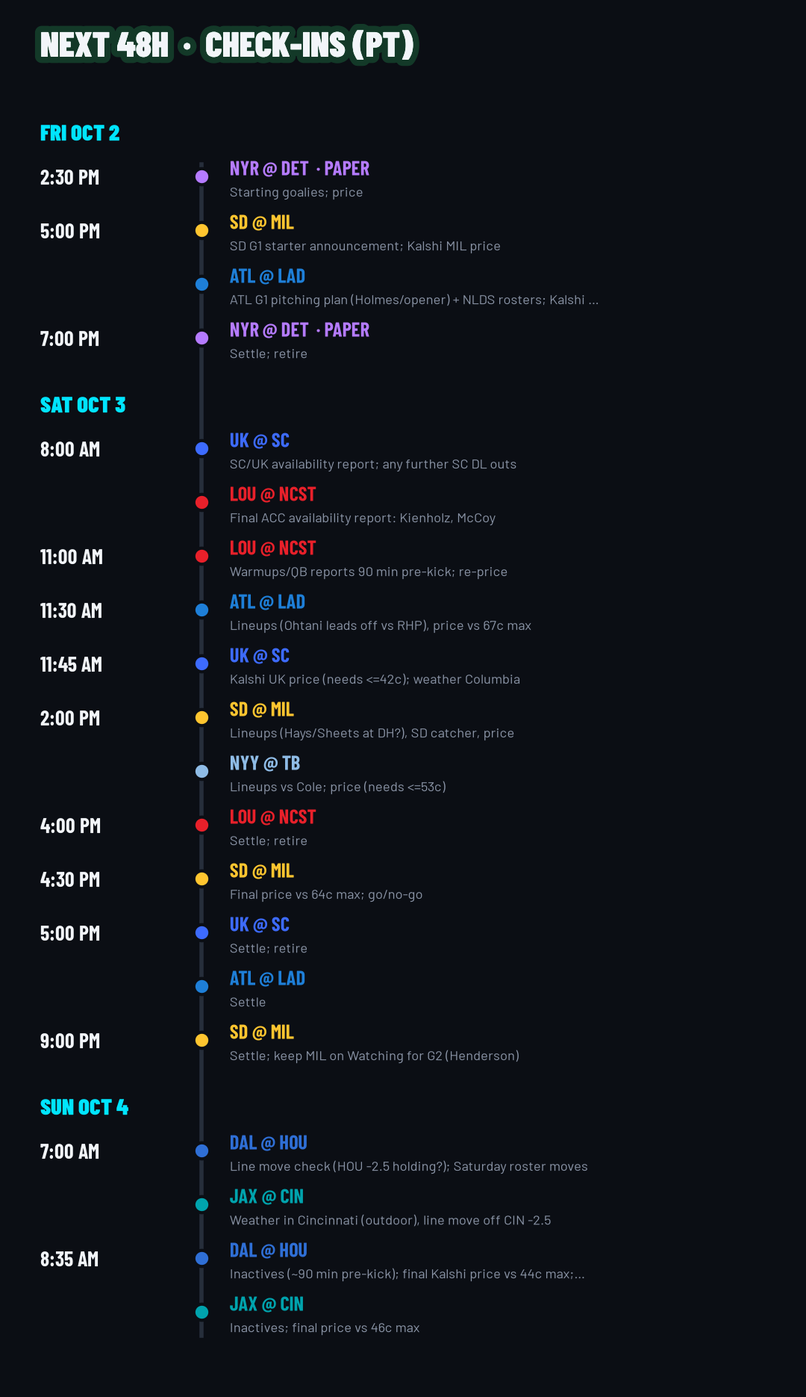
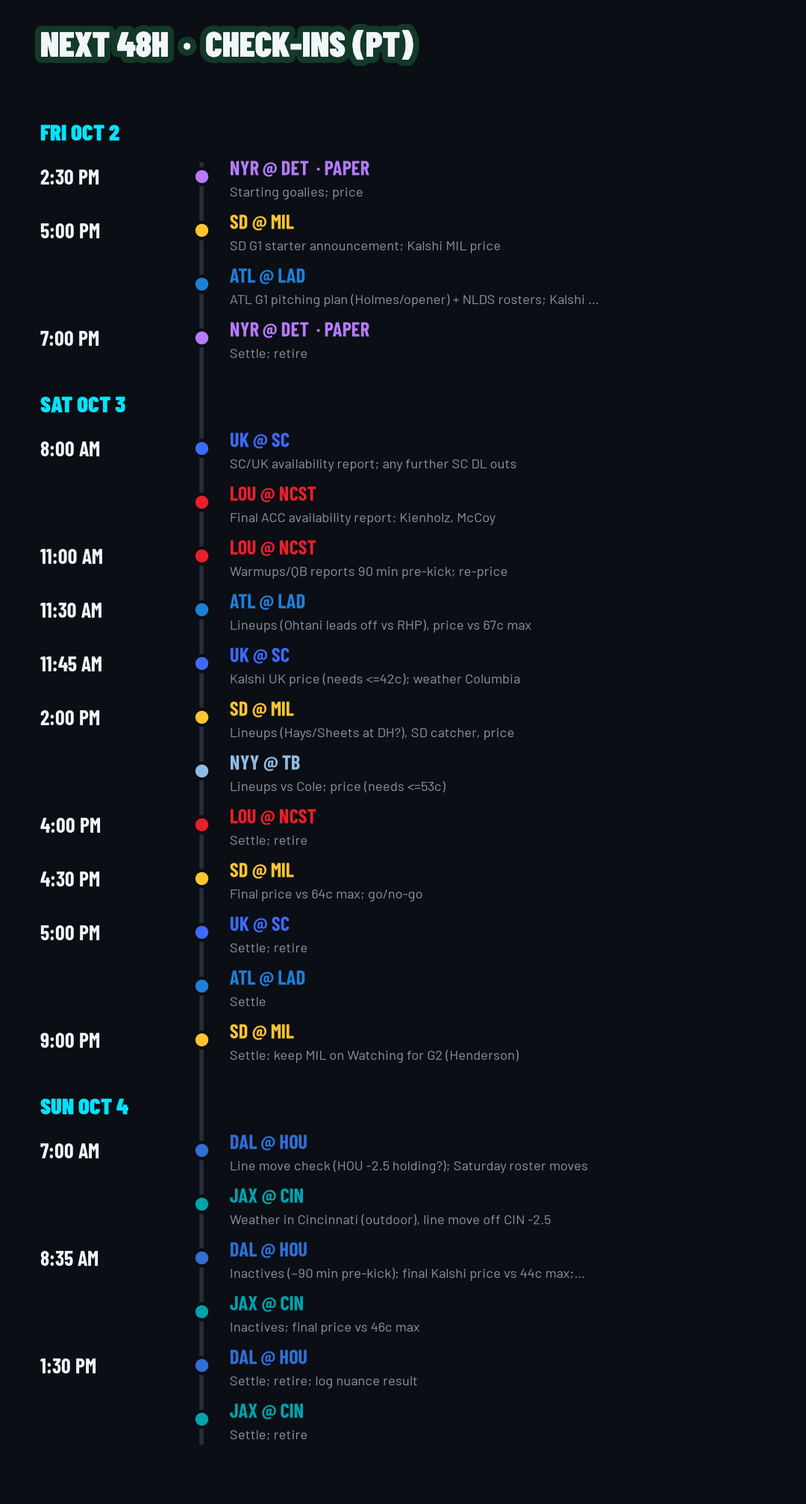
Board update 2026-10-02 1:35 PM PT

diff --git a/index.html b/index.html
@@ -118,7 +118,7 @@ details.vzbal summary::-webkit-details-marker{display:none}details.vzbal div{fon
 .tag.placed{background:#39FF88;color:#0B0E14;font-weight:800}
 
 .wyopen{cursor:pointer}.card[data-why] h3{cursor:pointer}
-.wybtn{display:inline-flex;align-items:center;gap:4px;margin-top:8px;font:600 12.5px/1 -apple-system,Segoe UI,Roboto,sans-serif;color:var(--acc);background:rgba(79,179,255,.10);border:1px solid rgba(79,179,255,.45);border-radius:999px;padding:7px 12px;cursor:pointer}
+.wybtn{display:inline-flex;align-items:center;gap:4px;margin:8px 0 2px;font:600 12.5px/1 -apple-system,Segoe UI,Roboto,sans-serif;color:var(--acc);background:rgba(79,179,255,.10);border:1px solid rgba(79,179,255,.45);border-radius:999px;padding:7px 12px;cursor:pointer}
 .wybtn:hover,.wybtn:focus-visible{background:rgba(79,179,255,.2);outline:none}
 tr[data-why]{cursor:pointer}tr[data-why]:hover td{background:rgba(79,179,255,.06)}
 tr[data-why] td:first-child b::after{content:" \203A";color:var(--acc)}
@@ -156,7 +156,7 @@ body.wylock{overflow:hidden}
 @media(min-width:760px){.wypanel{left:50%;top:50%;bottom:auto;right:auto;transform:translate(-50%,-50%);width:min(640px,92vw);max-height:86vh;border-radius:16px;border-bottom:1px solid var(--line)}}
 </style></head><body><div class="wrap">
 <div class="stamp">&#9679; LIVE &middot; last updated 2026-10-02 13:30 PT</div>
-<div id="built" class="small muted">page built Fri Oct 2, 1:23 PM PT</div>
+<div id="built" class="small muted">page built Fri Oct 2, 1:35 PM PT</div>
 <section id="vs" class="vz"><div class="vzhead"><span class="vztitle">&#127942; HEAD-TO-HEAD</span><span class="vzsince">REAL $ &middot; SINCE SEP 28</span></div><div class="vzcols"><div class="vzp user" style="--c:#FF7A1A"><div class="vzav"><span>🦊</span></div><div class="vzname">FOX</div><div class="vzsub">Blue beat · your money</div><div class="vznet">+$6.90</div><div class="vzrec">2-1 real &middot; ROI +7.3%</div><details class="vzbal"><summary>Balance: <b>—</b> &middot; tap to set</summary><div>Tell me your Kalshi balance in chat and I'll fill it in.</div></details></div><div class="vzvs">VS</div><div class="vzp me lead" style="--c:#39FF88"><div class="vzav"><span class="vzcrown">&#128081;</span><span>🎩</span></div><div class="vzname">THE GAMBLING MAN</div><div class="vzsub">me · test bankroll</div><div class="vznet">+$43.90</div><div class="vzrec">2-1 real &middot; ROI +75.7%</div><div class="vzbal">Bankroll <b>$63.90</b> &middot; from $20</div></div></div><div class="vzrows"><div class="vzrow"><span class="l">2-1</span><span class="k">RECORD</span><span class="r">2-1</span></div><div class="vzrow"><span class="l">+$6.90</span><span class="k">NET $</span><span class="r hl">+$43.90</span></div><div class="vzrow"><span class="l">+7.3%</span><span class="k">ROI</span><span class="r hl">+75.7%</span></div><div class="vzrow"><span class="l">$95</span><span class="k">STAKED</span><span class="r">$58</span></div><div class="vzrow"><span class="l">L1</span><span class="k">STREAK</span><span class="r">L1</span></div><div class="vzrow"><span class="l">+$45.00 NYY</span><span class="k">BIG WIN</span><span class="r">+$45.00 NYY</span></div><div class="vzrow"><span class="l hl">1-0 · +1.75u</span><span class="k">PAPER</span><span class="r">9-9 · -1.99u</span></div><div class="vzrow"><span class="l">Baseball</span><span class="k">BEST SPORT</span><span class="r">Baseball</span></div><div class="vzrow"><span class="l">—</span><span class="k">LOCKS</span><span class="r">0-0 · 3 pend</span></div><div class="vzrow"><span class="l">0</span><span class="k">OPEN BETS</span><span class="r">—</span></div></div><div class="vzlast"><div class="vzl user"><span class="k">LAST 5</span><span class="wl w pp" title="PHI@CHI paper"><b>W</b><i>CHI</i></span><span class="wl w" title="CHI @ VGK real"><b>W</b><i>VGK</i></span><span class="wl w" title="BOS @ NYY WC G2 real"><b>W</b><i>NYY</i></span><span class="wl l" title="MIN @ NSH real"><b>L</b><i>NSH</i></span></div><div class="vzl me"><span class="k">LAST 5</span><span class="wl l" title="MIN @ NSH real"><b>L</b><i>NSH</i></span><span class="wl l pp" title=" paper"><b>L</b><i>PIT</i></span><span class="wl l pp" title=" paper"><b>L</b><i>TBL</i></span><span class="wl w pp" title=" paper"><b>W</b><i>UTA</i></span><span class="wl l pp" title=" paper"><b>L</b><i>PHI</i></span></div></div><div class="vzch"><div class="vzchh"><span>CUMULATIVE REAL P&amp;L ($)</span><span><i style="background:#FF7A1A"></i>FOX <i style="background:#39FF88"></i>ME</span></div><svg class="vzchart" viewBox="0 0 340 150" role="img" aria-label="cumulative real-money P&amp;L"><line x1="34" x2="328" y1="117.0" y2="117.0" class="vz0"/><text x="34.0" y="144" class="vzax" text-anchor="middle">9/28</text><text x="107.5" y="144" class="vzax" text-anchor="middle">9/29</text><text x="181.0" y="144" class="vzax" text-anchor="middle">9/30</text><text x="254.5" y="144" class="vzax" text-anchor="middle">10/1</text><text x="328.0" y="144" class="vzax" text-anchor="middle">10/2</text><line x1="34" x2="328" y1="117.0" y2="117.0" class="vzg"/><text x="30" y="120.0" class="vzax" text-anchor="end">0</text><line x1="34" x2="328" y1="77.8" y2="77.8" class="vzg"/><text x="30" y="80.8" class="vzax" text-anchor="end">+20</text><line x1="34" x2="328" y1="38.6" y2="38.6" class="vzg"/><text x="30" y="41.6" class="vzax" text-anchor="end">+40</text><path d="M34.0,117.0 L107.5,113.2 L181.0,25.0 L254.5,103.4 L328.0,103.4" fill="none" stroke="#FF7A1A" stroke-width="2.6" stroke-linejoin="round" style="filter:drop-shadow(0 0 4px #FF7A1A)" /><circle cx="107.5" cy="113.2" r="3" fill="#FF7A1A"/><circle cx="181.0" cy="25.0" r="3" fill="#FF7A1A"/><circle cx="254.5" cy="103.4" r="3" fill="#FF7A1A"/><path d="M34.0,117.0 L107.5,113.2 L181.0,25.0 L254.5,30.9 L328.0,30.9" fill="none" stroke="#39FF88" stroke-width="3" stroke-linejoin="round" style="filter:drop-shadow(0 0 4px #39FF88)" stroke-dasharray="6 4"/><circle cx="107.5" cy="113.2" r="3" fill="#39FF88"/><circle cx="181.0" cy="25.0" r="3" fill="#39FF88"/><circle cx="254.5" cy="30.9" r="3" fill="#39FF88"/><text x="326" y="24.9" text-anchor="end" class="vzend" fill="#39FF88">+$43.90</text><text x="326" y="117.4" text-anchor="end" class="vzend" fill="#FF7A1A">+$6.90</text></svg></div><div class="vznote">&#128081; THE GAMBLING MAN leads on real-money ROI (net $ ÷ $ staked): +7.3% vs +75.7%. Your NYY $50 win was credited to my test bankroll, so it counts on both sides; NSH counts as your $40 vs my ~$3 rec. &#9650; = row leader. Chips: solid = real $, outlined = paper (1u).</div></section><div class="pfdiv"><span>&#128270; PICKS I FOUND FOR US</span></div>
 <section id="locks" class="locks"><div class="lkhead"><span class="lktitle">&#128274; TOP LOCKS &middot; SAT OCT 3</span><span class="lkrec">LOCKS 0-0 &middot; 3 pending</span></div><div class="lkwarn">&#9888; No bet is a lock — at 85¢, one loss erases ~5 wins. My % is my own estimate; you place all bets.</div><div class="lockrow"><article class="lockcard" style="background:radial-gradient(120% 90% at 0% 0%,rgba(244,115,33,.95) 0%,rgba(244,115,33,.55) 38%,rgba(0,80,48,.85) 75%,#0B0E14 100%);box-shadow:0 10px 28px -12px rgba(244,115,33,.75),inset 0 1px 0 rgba(255,255,255,.18)"><div class="lkwm">MIA</div><div class="lktop"><div class="lkmeta"><div class="lkleague">NCAAF &middot; MONEYLINE</div><div class="lkpick">MIAMI</div><div class="lkmatch">MIA @ CLEM &middot; Sat 4:30 PM PT</div></div><svg class="lkring" viewBox="0 0 110 124" role="img" aria-label="my 88% vs Kalshi 87 cents"><path d="M37 50 V34 a18 18 0 0 1 36 0 V50" fill="none" stroke="rgba(255,255,255,.28)" stroke-width="7" stroke-linecap="round"/><path d="M37 50 V34 a18 18 0 0 1 36 0 V50" fill="none" stroke="#39FF88" stroke-width="3" stroke-linecap="round" opacity=".85"/><circle cx="55" cy="78" r="42" fill="rgba(8,10,15,.72)" stroke="rgba(255,255,255,.14)"/><circle cx="55" cy="78" r="34" fill="none" stroke="rgba(255,255,255,.12)" stroke-width="7"/><circle cx="55" cy="78" r="34" fill="none" stroke="#39FF88" stroke-width="7" stroke-linecap="round" stroke-dasharray="188.0 213.6" transform="rotate(-90 55 78)" style="filter:drop-shadow(0 0 4px #39FF88)"/><line x1="36.8" y1="60.9" x2="23.7" y2="48.6" stroke="#FFC94D" stroke-width="3" stroke-linecap="round"/><text x="55" y="84" text-anchor="middle" class="lkpct">88%</text><text x="55" y="98" text-anchor="middle" class="lkvs">vs 87&cent;</text></svg></div><div class="lkchips"><span class="chip">KALSHI <b>87&cent;</b></span><span class="chip">EDGE <b>+1</b></span><span class="chip">$5 &rarr; <b>$5.75</b></span><span class="chip warnc">THIN EDGE</span></div><p class="lkwhy" title="FPI 87.4% (Miami #1 FPI, Clemson offense 115th) and -17.5 line vs a freshman QB (Reynolds); heavy rain forecast adds variance, series 7-7.">&#128161; FPI 87% and Miami −17.5 vs a freshman QB; heavy rain is the main risk.</p></article><article class="lockcard" style="background:radial-gradient(120% 90% at 0% 0%,rgba(204,0,0,.95) 0%,rgba(204,0,0,.55) 38%,rgba(26,26,26,.85) 75%,#0B0E14 100%);box-shadow:0 10px 28px -12px rgba(204,0,0,.75),inset 0 1px 0 rgba(255,255,255,.18)"><div class="lkwm">TTU</div><div class="lktop"><div class="lkmeta"><div class="lkleague">NCAAF &middot; MONEYLINE</div><div class="lkpick long">TEXAS TECH</div><div class="lkmatch">TTU @ COLO &middot; Sat 4:30 PM PT</div></div><svg class="lkring" viewBox="0 0 110 124" role="img" aria-label="my 83% vs Kalshi 82 cents"><path d="M37 50 V34 a18 18 0 0 1 36 0 V50" fill="none" stroke="rgba(255,255,255,.28)" stroke-width="7" stroke-linecap="round"/><path d="M37 50 V34 a18 18 0 0 1 36 0 V50" fill="none" stroke="#39FF88" stroke-width="3" stroke-linecap="round" opacity=".85"/><circle cx="55" cy="78" r="42" fill="rgba(8,10,15,.72)" stroke="rgba(255,255,255,.14)"/><circle cx="55" cy="78" r="34" fill="none" stroke="rgba(255,255,255,.12)" stroke-width="7"/><circle cx="55" cy="78" r="34" fill="none" stroke="#39FF88" stroke-width="7" stroke-linecap="round" stroke-dasharray="177.3 213.6" transform="rotate(-90 55 78)" style="filter:drop-shadow(0 0 4px #39FF88)"/><line x1="32.4" y1="67.4" x2="16.1" y2="59.7" stroke="#FFC94D" stroke-width="3" stroke-linecap="round"/><text x="55" y="84" text-anchor="middle" class="lkpct">83%</text><text x="55" y="98" text-anchor="middle" class="lkvs">vs 82&cent;</text></svg></div><div class="lkchips"><span class="chip">KALSHI <b>82&cent;</b></span><span class="chip">EDGE <b>+1</b></span><span class="chip">$5 &rarr; <b>$6.10</b></span><span class="chip warnc">THIN EDGE</span></div><p class="lkwhy" title="FPI 86.9% and SP+ #11 vs #82; CU without WR Scudero and CB Ashley. Discount: Tech 1-4 at Folsom, lost there 41-27 in 2024, QB Hammond leads Big 12 in INTs.">&#128161; FPI 87%, SP+ #11 vs #82, CU missing 2 starters; Folsom has bitten Tech before.</p></article><article class="lockcard" style="background:radial-gradient(120% 90% at 0% 0%,rgba(232,74,39,.95) 0%,rgba(232,74,39,.55) 38%,rgba(19,41,75,.85) 75%,#0B0E14 100%);box-shadow:0 10px 28px -12px rgba(232,74,39,.75),inset 0 1px 0 rgba(255,255,255,.18)"><div class="lkwm">ILL</div><div class="lktop"><div class="lkmeta"><div class="lkleague">NCAAF &middot; MONEYLINE</div><div class="lkpick long">ILLINOIS</div><div class="lkmatch">PUR @ ILL &middot; Sat 1:15 PM PT</div></div><svg class="lkring" viewBox="0 0 110 124" role="img" aria-label="my 78% vs Kalshi 77 cents"><path d="M37 50 V34 a18 18 0 0 1 36 0 V50" fill="none" stroke="rgba(255,255,255,.28)" stroke-width="7" stroke-linecap="round"/><path d="M37 50 V34 a18 18 0 0 1 36 0 V50" fill="none" stroke="#39FF88" stroke-width="3" stroke-linecap="round" opacity=".85"/><circle cx="55" cy="78" r="42" fill="rgba(8,10,15,.72)" stroke="rgba(255,255,255,.14)"/><circle cx="55" cy="78" r="34" fill="none" stroke="rgba(255,255,255,.12)" stroke-width="7"/><circle cx="55" cy="78" r="34" fill="none" stroke="#39FF88" stroke-width="7" stroke-linecap="round" stroke-dasharray="166.6 213.6" transform="rotate(-90 55 78)" style="filter:drop-shadow(0 0 4px #39FF88)"/><line x1="30.2" y1="74.9" x2="12.3" y2="72.6" stroke="#FFC94D" stroke-width="3" stroke-linecap="round"/><text x="55" y="84" text-anchor="middle" class="lkpct">78%</text><text x="55" y="98" text-anchor="middle" class="lkvs">vs 77&cent;</text></svg></div><div class="lkchips"><span class="chip">KALSHI <b>77&cent;</b></span><span class="chip">EDGE <b>+1</b></span><span class="chip">$5 &rarr; <b>$6.49</b></span><span class="chip warnc">THIN EDGE</span></div><p class="lkwhy" title="FPI 81.1% vs a 1-3 Purdue just routed by Notre Dame; books -365 (~75% no-vig). Discount: Illinois DC just left and 3 OL are Q/doubtful.">&#128161; FPI 81% vs a 1-3 Purdue; Illinois OL injuries and a new DC trim it.</p></article></div><div class=lkswipe>swipe &rarr;</div><div class="lknone">&#128275; Fri Oct 2: no locks. No MLB/NFL games and no NHL favorite at 75%+. Montana St (84¢) is on the road without its QB, RB and top WR, so my ~82% is below the price.</div><details class="lkpassed"><summary>Passed on 6 big favorites</summary><ul><li><b>MTST @ IDHO (Fri)</b> 84&cent; vs my 82% &mdash; QB Lamson, RB Jones, WR T. Dowler, S C. Dowler out; road Kibbie Dome (lost there 2023)</li><li><b>OSU @ IOWA</b> 85&cent; vs my 83% &mdash; ESPN now 82.9%; Iowa 4-0 and healthy at Kinnick; OSU nickel Timmons and RT Daniels Q</li><li><b>ARK @ TXAM</b> 85&cent; vs my 85% &mdash; FPI 90% but numberFire 75%; A&amp;M lost 2 straight, QB Reed 48% comp, top WR Craver Q</li><li><b>MD @ NEB</b> 86&cent; vs my 86% &mdash; Fair: books ~84% no-vig, numberFire 88%; road team won last 3 meetings</li><li><b>WASH @ USC</b> 77&cent; vs my 76% &mdash; Books ~75%; long USC injury list</li><li><b>UCF @ HOU</b> 80&cent; vs my 79% &mdash; FPI only HOU by 8.1; UCF QB Barnett out already priced</li></ul><div class="lkrule">Rule: My win % &gt;= 75 AND &gt; Kalshi Yes ask; 0-5 per day; baseball/football first; hockey only with PAPER ONLY flag. Logged as 1u paper bets tagged [lock]. Prices as of 2026-10-02 12:09 PT (Kalshi public API, Yes ask; re-checked, unchanged from 12:06).</div></details></section>
 <img class="viz hero" alt="Watch Board dashboard" loading="lazy" src="img/hero.png?v=dc00bc76">
@@ -176,6 +176,7 @@ body.wylock{overflow:hidden}
 <h3>Dallas Cowboys <span class="tag st">On Board</span></h3>
 <div><span class="tag">NFL</span><span class="tag">model-vs-market</span><span class="tag">brand-tax-home-fav</span><span class="tag">must-win-spot (HOU 0-3)</span></div>
 <div class="muted small">DAL @ HOU &middot; Sun Oct 4, 10:00 AM PT &middot; DAL ML (Kalshi KXNFLGAME-26OCT04DALHOU-DAL)</div>
+<button type="button" class="wybtn" data-why="dal-nfl-wk4" aria-label="Why this call for Dallas Cowboys">Why this call? &rsaquo;</button>
 <p>Model-vs-market gap: ESPN FPI has DAL ~54-56% outright while Kalshi prices DAL at 41c. DAL offense #4 EPA/play (Prescott 730 yds, 7 TD, 1 INT); HOU 0-3, 21st EPA/play, 4.8 yds/play, 3.6 YPC. Risk: DAL defense is dead last in EPA/play and Nico Collins returned to practice Wed.</p>
 <b>Entry threshold (3/3 met)</b>
 <ul class="th"><li><span class="ok">&#10004;</span> Kalshi DAL Yes ask &lt;= 44c <span class="muted small">41c (13:30 PT)</span></li><li><span class="ok">&#10004;</span> Prescott active, no new Q/OUT on Lamb/Pickens in Friday final report <span class="muted small">Fri final (13:30 PT): Prescott/Lamb/Pickens clear of new Q/OUT. Durant OUT, Overshown OUT (DAL secondary). HOU: Nico Collins cleared.</span></li><li><span class="ok">&#10004;</span> My conf &gt;= 46 and &gt;= ask + 3 <span class="muted small">48 vs 41c</span></li></ul>
@@ -184,7 +185,6 @@ body.wylock{overflow:hidden}
 <div class="small muted">Team-color line = my confidence (own estimate). Yellow dashed = Kalshi Yes ask. Green zone = qualifying confidence.</div>
 <div class="small" style="margin-top:6px"><b>Next check-in:</b> Sun Oct 4, 7:00 AM PT: Line move check (HOU -2.5 holding?); Saturday roster moves</div>
 <div class="small">Checklist: <span class="ok">done 2,3,4,5,6,10</span> &middot; <span class="pend">partial 1,8,11</span> &middot; <span class="no">todo 7,9</span></div>
-<button type="button" class="wybtn" data-why="dal-nfl-wk4" aria-label="Why this call for Dallas Cowboys">Why this call? &rsaquo;</button>
 <details><summary>Confidence log, to-dos, paper ref</summary>
 <ul class="small"><li><b>48</b> &middot; 2026-10-02 10:45 PT: -2: Texans.com (Oct 2) says Collins back at practice Wed + G Ed Ingram back; DAL D last in EPA/play. Edge shrinks, still +7 vs 41c.</li><li><b>50</b> &middot; 2026-10-02 10:30 PT: Initial: FPI DAL ~54-56% vs market ~41%; HOU 0-3 with 21st EPA/play offense; DAL #4 offense.</li></ul>
 <div class="small"><b>Grow knowledge:</b><ul><li>Check DAL-HOU head-to-head and &#x27;Texas bowl&#x27; history (checklist #7)</li><li>Track HOU offense split with vs without Collins</li><li>Log DAL defense EPA trend each week - it is the main fail mode</li><li>Compare FPI vs Kalshi close on every NFL dog to see if model-vs-market tag wins</li></ul></div>
@@ -193,6 +193,7 @@ body.wylock{overflow:hidden}
 <h3>Jacksonville Jaguars <span class="tag st">On Board</span></h3>
 <div><span class="tag">NFL</span><span class="tag">model-vs-market</span><span class="tag">burrow-home-brand-tax</span><span class="tag">road-dog</span></div>
 <div class="muted small">JAX @ CIN &middot; Sun Oct 4, 10:00 AM PT &middot; JAX ML (Kalshi KXNFLGAME-26OCT04JACCIN-JAC)</div>
+<button type="button" class="wybtn" data-why="jax-nfl-wk4" aria-label="Why this call for Jacksonville Jaguars">Why this call? &rsaquo;</button>
 <p>Market dog vs FPI favorite: FPI JAX 55%, Kalshi JAX 43c. JAX #1 in EPA/pass on D after holding NE to 6; JAX offense 5th EPA/play vs CIN 9th. CIN&#x27;s 2 wins came vs TB/HOU (combined 0-6); CIN D got carved by Rodgers in Wk3.</p>
 <b>Entry threshold (3/3 met)</b>
 <ul class="th"><li><span class="ok">&#10004;</span> Kalshi JAX Yes ask &lt;= 46c <span class="muted small">43c (13:30 PT)</span></li><li><span class="ok">&#10004;</span> Lawrence active; no key JAX starter OUT (only Regis Q, TE Boerkircher ill) <span class="muted small">Fri final (13:30 PT): still clears entry gates.</span></li><li><span class="ok">&#10004;</span> My conf &gt;= 47 and &gt;= ask + 3 <span class="muted small">49 vs 43c</span></li></ul>
@@ -201,7 +202,6 @@ body.wylock{overflow:hidden}
 <div class="small muted">Team-color line = my confidence (own estimate). Yellow dashed = Kalshi Yes ask. Green zone = qualifying confidence.</div>
 <div class="small" style="margin-top:6px"><b>Next check-in:</b> Sun Oct 4, 7:00 AM PT: Weather in Cincinnati (outdoor), line move off CIN -2.5</div>
 <div class="small">Checklist: <span class="ok">done 3,4,5</span> &middot; <span class="pend">partial 1,2,6,11</span> &middot; <span class="no">todo 7,8,9,10</span></div>
-<button type="button" class="wybtn" data-why="jax-nfl-wk4" aria-label="Why this call for Jacksonville Jaguars">Why this call? &rsaquo;</button>
 <details><summary>Confidence log, to-dos, paper ref</summary>
 <ul class="small"><li><b>49</b> &middot; 2026-10-02 10:45 PT: Initial: blend FPI JAX 55% with no-vig market ~44%; JAX D #1 EPA/pass; CIN wins vs weak opponents.</li></ul>
 <div class="small"><b>Grow knowledge:</b><ul><li>Check JAX-CIN recent head-to-head</li><li>Note: DAL and JAX are the SAME thesis family (FPI dog, 10 AM PT) - correlated; size as one idea</li><li>Track Lawrence vs top-10 pass rushes</li></ul></div>
@@ -210,6 +210,7 @@ body.wylock{overflow:hidden}
 <h3>Los Angeles Dodgers <span class="tag st">On Board</span></h3>
 <div><span class="tag">MLB</span><span class="tag">rest-vs-rust</span><span class="tag">patched-rotation</span></div>
 <div class="muted small">ATL @ LAD, NLDS G1 &middot; Sat Oct 3, 1:00 PM PT &middot; LAD ML (Kalshi KXMLBGAME-26OCT031600ATLLAD-LAD)</div>
+<button type="button" class="wybtn" data-why="lad-mlb-nlds1" aria-label="Why this call for Los Angeles Dodgers">Why this call? &rsaquo;</button>
 <p>ATL is patching G1 after a 3-game WC: Sale unavailable before G2, Mahle not before G3, Perez ineligible; Holmes threw 2 IP Thu, opener/Holmes likely. LAD rested a week; Skubal confirmed G1 (Yamamoto expected G2). LAD #2 wOBA (.334).</p>
 <b>Entry threshold (4/4 met)</b>
 <ul class="th"><li><span class="ok">&#10004;</span> LAD starter Yamamoto or Skubal officially confirmed <span class="muted small">Skubal confirmed G1 (Ardaya/The Athletic; True Blue LA Oct 2 ~11:32 AM PT)</span></li><li><span class="ok">&#10004;</span> ATL starter is not Sale <span class="muted small">Sale unavailable before G2; ATL G1 still patched (Holmes/opener TBD)</span></li><li><span class="ok">&#10004;</span> Kalshi LAD Yes ask &lt;= 67c <span class="muted small">67c (bid 66c)</span></li><li><span class="ok">&#10004;</span> My conf &gt;= ask + 3 <span class="muted small">71 vs 67c</span></li></ul>
@@ -218,7 +219,6 @@ body.wylock{overflow:hidden}
 <div class="small muted">Team-color line = my confidence (own estimate). Yellow dashed = Kalshi Yes ask. Green zone = qualifying confidence.</div>
 <div class="small" style="margin-top:6px"><b>Next check-in:</b> Fri Oct 2, 5:00 PM PT: ATL G1 pitching plan (Holmes/opener) + NLDS rosters; Kalshi LAD price vs 67c</div>
 <div class="small">Checklist: <span class="ok">done 2,3,4,6</span> &middot; <span class="pend">partial 1,5</span> &middot; <span class="no">todo 7,8,9,10,11</span></div>
-<button type="button" class="wybtn" data-why="lad-mlb-nlds1" aria-label="Why this call for Los Angeles Dodgers">Why this call? &rsaquo;</button>
 <details><summary>Confidence log, to-dos, paper ref</summary>
 <ul class="small"><li><b>71</b> &middot; 2026-10-02 11:55 PT: +1: Skubal officially named G1 starter (2.61 ERA / 70 K in 10 starts w/ LAD; ATL weaker vs LHP). Yamamoto likely G2. Last SP-confirm condition cleared; all thresholds met at 67c.</li><li><b>70</b> &middot; 2026-10-02 10:45 PT: Initial: rested elite SP vs ATL bullpen game; ATL pen on heavy usage after WC G3. One condition (SP confirmation) left.</li></ul>
 <div class="small"><b>Grow knowledge:</b><ul><li>Check whether week-long layoffs hurt rested teams in recent DS G1s (rest-vs-rust tag)</li></ul></div>
@@ -237,6 +237,7 @@ body.wylock{overflow:hidden}
 <h3>Kentucky Wildcats <span class="tag st">Watching</span></h3>
 <div><span class="tag">NCAAF</span><span class="tag">suspension-gap</span><span class="tag">line-already-moved</span></div>
 <div class="muted small">UK @ SC &middot; Sat Oct 3, 1:15 PM PT &middot; UK ML (Kalshi KXNCAAFGAME-26OCT03UKSCAR-UK)</div>
+<button type="button" class="wybtn" data-why="uk-ncaaf-w5" aria-label="Why this call for Kentucky Wildcats">Why this call? &rsaquo;</button>
 <p>SC without star edge Dylan Stewart (SEC/school one-game suspension confirmed) after a 49-18 loss at Alabama. But the line already moved SC -7 to -2.5/-3; ESPN 57.9% SC, numberFire 59.7% SC. Edge is thin.</p>
 <b>Entry threshold (1/3 met)</b>
 <ul class="th"><li><span class="ok">&#10004;</span> Dylan Stewart OUT <span class="muted small">Confirmed one-game suspension</span></li><li><span class="no">&#10008;</span> Kalshi UK Yes ask &lt;= 42c <span class="muted small">43c - 1c away</span></li><li><span class="no">&#10008;</span> My conf &gt;= ask + 3 <span class="muted small">45 vs 43c (+2)</span></li></ul>
@@ -245,7 +246,6 @@ body.wylock{overflow:hidden}
 <div class="small muted">Team-color line = my confidence (own estimate). Yellow dashed = Kalshi Yes ask. Green zone = qualifying confidence.</div>
 <div class="small" style="margin-top:6px"><b>Next check-in:</b> Sat Oct 3, 8:00 AM PT: SC/UK availability report; any further SC DL outs</div>
 <div class="small">Checklist: <span class="ok">done 1,3</span> &middot; <span class="pend">partial 4,5,6</span> &middot; <span class="no">todo 2,7,8,9,10,11</span></div>
-<button type="button" class="wybtn" data-why="uk-ncaaf-w5" aria-label="Why this call for Kentucky Wildcats">Why this call? &rsaquo;</button>
 <details><summary>Confidence log, to-dos, paper ref</summary>
 <ul class="small"><li><b>45</b> &middot; 2026-10-02 10:45 PT: Initial: Stewart out is real but market already moved 4.5 pts; models ~40-42% UK. Small edge only.</li></ul>
 <div class="small"><b>Grow knowledge:</b><ul><li>Log how much line moves after star-defender suspensions (does market overreact?)</li></ul></div>
@@ -254,6 +254,7 @@ body.wylock{overflow:hidden}
 <h3>NC State Wolfpack <span class="tag st">Watching</span></h3>
 <div><span class="tag">NCAAF</span><span class="tag">qb-uncertainty</span><span class="tag">home-dog</span></div>
 <div class="muted small">LOU @ NCST &middot; Sat Oct 3, 12:30 PM PT &middot; NCST ML (Kalshi KXNCAAFGAME-26OCT03LOUNCST-NCST)</div>
+<button type="button" class="wybtn" data-why="ncst-ncaaf-w5" aria-label="Why this call for NC State Wolfpack">Why this call? &rsaquo;</button>
 <p>Louisville QB Lincoln Kienholz (13 total TD) is questionable/game-time decision (ankle); WR McCoy (20.1 ypc) also Q. If backup Davin Wydner starts, NCST at home is close to a coin flip. NCST has its own holes: 7 out incl. OL Rylan Vann and Spike Sowells Jr.</p>
 <b>Entry threshold (1/3 met, 1 pending)</b>
 <ul class="th"><li><span class="pend">&#8987;</span> Kienholz ruled OUT (or clearly limited) <span class="muted small">Game-time decision</span></li><li><span class="ok">&#10004;</span> Kalshi NCST Yes ask &lt;= 45c <span class="muted small">38c</span></li><li><span class="no">&#10008;</span> My conf &gt;= 48 and &gt;= ask + 3 <span class="muted small">41 now; ~50 if Wydner starts</span></li></ul>
@@ -262,7 +263,6 @@ body.wylock{overflow:hidden}
 <div class="small muted">Team-color line = my confidence (own estimate). Yellow dashed = Kalshi Yes ask. Green zone = qualifying confidence.</div>
 <div class="small" style="margin-top:6px"><b>Next check-in:</b> Sat Oct 3, 8:00 AM PT: Final ACC availability report: Kienholz, McCoy</div>
 <div class="small">Checklist: <span class="ok">done 3</span> &middot; <span class="pend">partial 1,4,8</span> &middot; <span class="no">todo 2,5,6,7,9,10,11</span></div>
-<button type="button" class="wybtn" data-why="ncst-ncaaf-w5" aria-label="Why this call for NC State Wolfpack">Why this call? &rsaquo;</button>
 <details><summary>Confidence log, to-dos, paper ref</summary>
 <ul class="small"><li><b>41</b> &middot; 2026-10-02 10:45 PT: Initial: assumes Kienholz plays (GTD). NCST OL down two starters. Would move to ~50 if Wydner starts.</li></ul>
 <div class="small"><b>Grow knowledge:</b><ul><li>Track how Kalshi reacts to GTD QB news in the last hour (buy window?)</li></ul></div>
@@ -271,6 +271,7 @@ body.wylock{overflow:hidden}
 <h3>Detroit Lions <span class="tag st">Watching</span></h3>
 <div><span class="tag">NFL</span><span class="tag">primetime-road-fav</span></div>
 <div class="muted small">DET @ CAR (SNF) &middot; Sun Oct 4, 5:20 PM PT &middot; DET ML (Kalshi KXNFLGAME-26OCT04DETCAR-DET)</div>
+<button type="button" class="wybtn" data-why="det-nfl-wk4" aria-label="Why this call for Detroit Lions">Why this call? &rsaquo;</button>
 <p>Talent gap; CAR without WR Legette (knee) and LG Damien Lewis (elbow). But DET has Bartch out, Branch and Kerby Joseph on PUP, and the price (65c, books -180) already reflects the gap.</p>
 <b>Entry threshold (1/3 met)</b>
 <ul class="th"><li><span class="no">&#10008;</span> Kalshi DET Yes ask &lt;= 61c <span class="muted small">65c (13:30 PT); needs &lt;=61c to qualify</span></li><li><span class="no">&#10008;</span> My conf &gt;= ask + 3 <span class="muted small">64 vs 65c</span></li><li><span class="ok">&#10004;</span> No new key DET OUT beyond Bartch / PUP DBs <span class="muted small">CAR Fri report: Legette (knee) + Lewis (elbow) OUT (panthers.com). 13:30 PT: DET stays Watching at 65c.</span></li></ul>
@@ -279,7 +280,6 @@ body.wylock{overflow:hidden}
 <div class="small muted">Team-color line = my confidence (own estimate). Yellow dashed = Kalshi Yes ask. Green zone = qualifying confidence.</div>
 <div class="small" style="margin-top:6px"><b>Next check-in:</b> Sun Oct 4, 3:50 PM PT: Inactives; price (needs &lt;=61c)</div>
 <div class="small">Checklist: <span class="ok">done 3</span> &middot; <span class="pend">partial 1,5</span> &middot; <span class="no">todo 2,4,6,7,8,9,10,11</span></div>
-<button type="button" class="wybtn" data-why="det-nfl-wk4" aria-label="Why this call for Detroit Lions">Why this call? &rsaquo;</button>
 <details><summary>Confidence log, to-dos, paper ref</summary>
 <ul class="small"><li><b>64</b> &middot; 2026-10-02 10:45 PT: Initial: right side but fairly priced; no edge at 65c.</li></ul>
 <div class="small"><b>Grow knowledge:</b><ul><li>Check DET secondary depth without Branch/Joseph</li></ul></div>
@@ -288,6 +288,7 @@ body.wylock{overflow:hidden}
 <h3>Milwaukee Brewers <span class="tag st">Watching</span></h3>
 <div><span class="tag">MLB</span><span class="tag">ace-vs-TBA</span><span class="tag">rest-edge</span></div>
 <div class="muted small">SD @ MIL, NLDS G1 &middot; Sat Oct 3, 5:30 PM PT &middot; MIL ML (Kalshi KXMLBGAME-26OCT032030SDMIL-MIL)</div>
+<button type="button" class="wybtn" data-why="mil-mlb-nlds1" aria-label="Why this call for Milwaukee Brewers">Why this call? &rsaquo;</button>
 <p>Misiorowski (16-5, 1.80 ERA, 0.80 WHIP, 252 K, record-low .157 opp AVG) on 5 days rest vs SD starter TBA (likely Buehler 4.63 ERA / Ray). King and Pivetta used in WC; SD setup man Estrada (shoulder) out. MIL 103-59, home.</p>
 <b>Entry threshold (2/4 met, 1 pending)</b>
 <ul class="th"><li><span class="ok">&#10004;</span> Misiorowski confirmed <span class="muted small">Confirmed by Brewers</span></li><li><span class="pend">&#8987;</span> SD starter is not King/Pivetta (Buehler, Ray, or bullpen) <span class="muted small">Still TBD (Buehler/Ray likeliest); MLB.com lists Padres G1 starter TBD as of midday</span></li><li><span class="no">&#10008;</span> Kalshi MIL Yes ask &lt;= 64c <span class="muted small">65c - 1c away</span></li><li><span class="ok">&#10004;</span> My conf &gt;= 67 <span class="muted small">67</span></li></ul>
@@ -296,7 +297,6 @@ body.wylock{overflow:hidden}
 <div class="small muted">Team-color line = my confidence (own estimate). Yellow dashed = Kalshi Yes ask. Green zone = qualifying confidence.</div>
 <div class="small" style="margin-top:6px"><b>Next check-in:</b> Fri Oct 2, 5:00 PM PT: SD G1 starter announcement; Kalshi MIL price</div>
 <div class="small">Checklist: <span class="ok">done 3,4,6</span> &middot; <span class="pend">partial 1,2,5</span> &middot; <span class="no">todo 7,8,9,10,11</span></div>
-<button type="button" class="wybtn" data-why="mil-mlb-nlds1" aria-label="Why this call for Milwaukee Brewers">Why this call? &rsaquo;</button>
 <details><summary>Confidence log, to-dos, paper ref</summary>
 <ul class="small"><li><b>67</b> &middot; 2026-10-02 10:45 PT: Initial: elite SP gap + 103-win home team; SD hot after WC sweep and lineup handles velocity (Sheets). Short-series variance caps it.</li></ul>
 <div class="small"><b>Grow knowledge:</b><ul><li>Track Miz pitch count/velo by inning for G5 planning</li><li>Add G2 (Sun 1:00 PM PT, MIL 57c) once SD G2 SP known</li></ul></div>
@@ -305,6 +305,7 @@ body.wylock{overflow:hidden}
 <h3>Tampa Bay Rays <span class="tag st">Watching</span></h3>
 <div><span class="tag">MLB</span><span class="tag">pitcher-vs-team-history</span><span class="tag">rest-vs-rust</span></div>
 <div class="muted small">NYY @ TB, ALDS G1 &middot; Sat Oct 3, 3:30 PM PT &middot; TB ML (Kalshi KXMLBGAME-26OCT031830NYYTB-TB)</div>
+<button type="button" class="wybtn" data-why="tb-mlb-alds1" aria-label="Why this call for Tampa Bay Rays">Why this call? &rsaquo;</button>
 <p>Rasmussen (16-5, 2.67 ERA, AL-best 0.91 WHIP; 1.81 ERA career vs NYY) vs Cole (3.61 ERA, HR trouble in Sept). TB 98 wins, rested, home at renovated Trop; TB lineup better vs RHP. NYY hot after sweeping BOS.</p>
 <b>Entry threshold (1/3 met)</b>
 <ul class="th"><li><span class="ok">&#10004;</span> Rasmussen and Cole confirmed <span class="muted small">Both announced Oct 2</span></li><li><span class="no">&#10008;</span> Kalshi TB Yes ask &lt;= 53c <span class="muted small">56c</span></li><li><span class="no">&#10008;</span> My conf &gt;= ask + 3 <span class="muted small">56 vs 56c</span></li></ul>
@@ -313,7 +314,6 @@ body.wylock{overflow:hidden}
 <div class="small muted">Team-color line = my confidence (own estimate). Yellow dashed = Kalshi Yes ask. Green zone = qualifying confidence.</div>
 <div class="small" style="margin-top:6px"><b>Next check-in:</b> Sat Oct 3, 2:00 PM PT: Lineups vs Cole; price (needs &lt;=53c)</div>
 <div class="small">Checklist: <span class="ok">done 1,3</span> &middot; <span class="pend">partial 4,5,7</span> &middot; <span class="no">todo 2,6,8,9,10,11</span></div>
-<button type="button" class="wybtn" data-why="tb-mlb-alds1" aria-label="Why this call for Tampa Bay Rays">Why this call? &rsaquo;</button>
 <details><summary>Confidence log, to-dos, paper ref</summary>
 <ul class="small"><li><b>56</b> &middot; 2026-10-02 10:45 PT: Initial: fair at 56c; Rasmussen-vs-NYY history is a nuance, not proof.</li></ul>
 <div class="small"><b>Grow knowledge:</b><ul><li>Note: we won 2 paper picks on NYY in WC - check for team bias</li></ul></div>
@@ -322,6 +322,7 @@ body.wylock{overflow:hidden}
 <h3>New York Rangers <span class="tag st">Watching</span></h3>
 <div><span class="tag">NHL</span><span class="tag paper">PAPER ONLY</span><span class="tag">missing-captain</span><span class="tag">PAPER-ONLY</span></div>
 <div class="muted small">NYR @ DET &middot; Fri Oct 2, 3:30 PM PT &middot; NYR ML (Kalshi KXNHLGAME-26OCT02NYRDET-NYR)</div>
+<button type="button" class="wybtn" data-why="nyr-nhl-1002" aria-label="Why this call for New York Rangers">Why this call? &rsaquo;</button>
 <p>DET without captain Larkin (upper body, out first 2 games) and unsigned D Edvinsson; NYR just beat TBL 5-1. PAPER ONLY - hockey is -3.8u on paper.</p>
 <b>Entry threshold (3/4 met, 1 pending)</b>
 <ul class="th"><li><span class="ok">&#10004;</span> Larkin OUT <span class="muted small">Confirmed by NHL.com</span></li><li><span class="ok">&#10004;</span> Kalshi NYR Yes ask &lt;= 47c <span class="muted small">47c</span></li><li><span class="ok">&#10004;</span> My conf &gt;= ask + 3 <span class="muted small">50 vs 47c</span></li><li><span class="pend">&#8987;</span> Starting goalies confirmed <span class="muted small">Not confirmed. Conflict: Daily Faceoff projects Shesterkin; Yahoo/DetroitHockeyNow say Garand likely (Korpisalo IR, back-to-back). Check 14:30 PT.</span></li></ul>
@@ -330,7 +331,6 @@ body.wylock{overflow:hidden}
 <div class="small muted">Team-color line = my confidence (own estimate). Yellow dashed = Kalshi Yes ask. Green zone = qualifying confidence.</div>
 <div class="small" style="margin-top:6px"><b>Next check-in:</b> Fri Oct 2, 2:30 PM PT: Starting goalies; price</div>
 <div class="small">Checklist: <span class="ok">done 1,3</span> &middot; <span class="pend">partial 4</span> &middot; <span class="no">todo 2,5,6,7,8,9,10,11</span></div>
-<button type="button" class="wybtn" data-why="nyr-nhl-1002" aria-label="Why this call for New York Rangers">Why this call? &rsaquo;</button>
 <details><summary>Confidence log, to-dos, paper ref</summary>
 <ul class="small"><li><b>50</b> &middot; 2026-10-02 10:45 PT: Initial: roster gap, but hockey variance and our -3.8u hockey record keep it a coin-flip-plus.</li></ul>
 <div class="small"><b>Grow knowledge:</b><ul><li>Hockey stays paper-only until paper record turns positive over 20+ picks</li></ul></div>
@@ -338,7 +338,7 @@ body.wylock{overflow:hidden}
 </details></div></div></details>
 
 <h2>Check-in timeline (next 48h, PT)</h2>
-<img class="viz tall" alt="48h check-in timeline" loading="lazy" src="img/timeline.png?v=107d4de8">
+<img class="viz tall" alt="48h check-in timeline" loading="lazy" src="img/timeline.png?v=7be939c9">
 <h2>Check-in schedule (next 72h, PT)</h2>
 <div class="tablewrap"><table><tr><th>When (PT)</th><th>Team</th><th>Status</th><th>What to check</th></tr><tr class="soon"><td>Fri Oct 2, 2:30 PM PT</td><td>New York Rangers (paper)</td><td>Watching</td><td class="small">Starting goalies; price</td></tr><tr class="soon"><td>Fri Oct 2, 5:00 PM PT</td><td>Milwaukee Brewers</td><td>Watching</td><td class="small">SD G1 starter announcement; Kalshi MIL price</td></tr><tr class="soon"><td>Fri Oct 2, 5:00 PM PT</td><td>Los Angeles Dodgers</td><td>On Board</td><td class="small">ATL G1 pitching plan (Holmes/opener) + NLDS rosters; Kalshi LAD price vs 67c</td></tr><tr class="soon"><td>Fri Oct 2, 7:00 PM PT</td><td>New York Rangers (paper)</td><td>Watching</td><td class="small">Settle; retire</td></tr><tr class=""><td>Sat Oct 3, 8:00 AM PT</td><td>Kentucky Wildcats</td><td>Watching</td><td class="small">SC/UK availability report; any further SC DL outs</td></tr><tr class=""><td>Sat Oct 3, 8:00 AM PT</td><td>NC State Wolfpack</td><td>Watching</td><td class="small">Final ACC availability report: Kienholz, McCoy</td></tr><tr class=""><td>Sat Oct 3, 11:00 AM PT</td><td>NC State Wolfpack</td><td>Watching</td><td class="small">Warmups/QB reports 90 min pre-kick; re-price</td></tr><tr class=""><td>Sat Oct 3, 11:30 AM PT</td><td>Los Angeles Dodgers</td><td>On Board</td><td class="small">Lineups (Ohtani leads off vs RHP), price vs 67c max</td></tr><tr class=""><td>Sat Oct 3, 11:45 AM PT</td><td>Kentucky Wildcats</td><td>Watching</td><td class="small">Kalshi UK price (needs &lt;=42c); weather Columbia</td></tr><tr class=""><td>Sat Oct 3, 2:00 PM PT</td><td>Milwaukee Brewers</td><td>Watching</td><td class="small">Lineups (Hays/Sheets at DH?), SD catcher, price</td></tr><tr class=""><td>Sat Oct 3, 2:00 PM PT</td><td>Tampa Bay Rays</td><td>Watching</td><td class="small">Lineups vs Cole; price (needs &lt;=53c)</td></tr><tr class=""><td>Sat Oct 3, 4:00 PM PT</td><td>NC State Wolfpack</td><td>Watching</td><td class="small">Settle; retire</td></tr><tr class=""><td>Sat Oct 3, 4:30 PM PT</td><td>Milwaukee Brewers</td><td>Watching</td><td class="small">Final price vs 64c max; go/no-go</td></tr><tr class=""><td>Sat Oct 3, 5:00 PM PT</td><td>Kentucky Wildcats</td><td>Watching</td><td class="small">Settle; retire</td></tr><tr class=""><td>Sat Oct 3, 5:00 PM PT</td><td>Los Angeles Dodgers</td><td>On Board</td><td class="small">Settle</td></tr><tr class=""><td>Sat Oct 3, 9:00 PM PT</td><td>Milwaukee Brewers</td><td>Watching</td><td class="small">Settle; keep MIL on Watching for G2 (Henderson)</td></tr><tr class=""><td>Sun Oct 4, 7:00 AM PT</td><td>Dallas Cowboys</td><td>On Board</td><td class="small">Line move check (HOU -2.5 holding?); Saturday roster moves</td></tr><tr class=""><td>Sun Oct 4, 7:00 AM PT</td><td>Jacksonville Jaguars</td><td>On Board</td><td class="small">Weather in Cincinnati (outdoor), line move off CIN -2.5</td></tr><tr class=""><td>Sun Oct 4, 8:35 AM PT</td><td>Dallas Cowboys</td><td>On Board</td><td class="small">Inactives (~90 min pre-kick); final Kalshi price vs 44c max; confirm or downgrade</td></tr><tr class=""><td>Sun Oct 4, 8:35 AM PT</td><td>Jacksonville Jaguars</td><td>On Board</td><td class="small">Inactives; final price vs 46c max</td></tr><tr class=""><td>Sun Oct 4, 1:30 PM PT</td><td>Dallas Cowboys</td><td>On Board</td><td class="small">Settle; retire; log nuance result</td></tr><tr class=""><td>Sun Oct 4, 1:30 PM PT</td><td>Jacksonville Jaguars</td><td>On Board</td><td class="small">Settle; retire</td></tr><tr class=""><td>Sun Oct 4, 3:50 PM PT</td><td>Detroit Lions</td><td>Watching</td><td class="small">Inactives; price (needs &lt;=61c)</td></tr></table></div>
 
@@ -394,7 +394,7 @@ body.wylock{overflow:hidden}
 <div class="small muted">UK @ SC &middot; Sat Oct 3, 1:15 PM PT</div></div>
 <button type="button" class="wyx" data-wyclose aria-label="Close">&times;</button></div>
 <div class="wybody">
-<div class="wyverdict wat"><span class="wyst">WATCHING</span><p><b>Watching</b>, not On Board: 2 condition(s) fail.</p></div>
+<div class="wyverdict wat"><span class="wyst">WATCHING</span><p><b>Watching</b>, not On Board: 2 of 3 conditions not met.</p></div>
 <div class="wynums"><div><b>43&cent;</b><span>Kalshi ask</span></div><div><b>42&cent;</b><span>my price cap</span></div>
 <div><b>45%</b><span>my confidence</span></div><div><b>+2</b><span>edge (pts)</span></div></div>
 <div class="wyprice" role="img" aria-label="Kalshi ask 43 cents vs cap 42 cents"><div class="wyzone" style="left:0;width:48.4%"></div><div class="wycap" style="left:48.4%"><span>cap 42&cent;</span></div><div class="wyask no" style="left:51.6%"><span>ask 43&cent;</span></div><div class="wyends"><span>27&cent;</span><span>58&cent;</span></div></div>
@@ -414,7 +414,7 @@ body.wylock{overflow:hidden}
 <div class="small muted">LOU @ NCST &middot; Sat Oct 3, 12:30 PM PT</div></div>
 <button type="button" class="wyx" data-wyclose aria-label="Close">&times;</button></div>
 <div class="wybody">
-<div class="wyverdict wat"><span class="wyst">WATCHING</span><p><b>Watching</b>, not On Board: 1 condition(s) fail and 1 pending.</p></div>
+<div class="wyverdict wat"><span class="wyst">WATCHING</span><p><b>Watching</b>, not On Board: 1 of 3 conditions not met and 1 still pending.</p></div>
 <div class="wynums"><div><b>38&cent;</b><span>Kalshi ask</span></div><div><b>45&cent;</b><span>my price cap</span></div>
 <div><b>41%</b><span>my confidence</span></div><div><b>+3</b><span>edge (pts)</span></div></div>
 <div class="wyprice" role="img" aria-label="Kalshi ask 38 cents vs cap 45 cents"><div class="wyzone" style="left:0;width:59.5%"></div><div class="wycap" style="left:59.5%"><span>cap 45&cent;</span></div><div class="wyask ok" style="left:40.5%"><span>ask 38&cent;</span></div><div class="wyends"><span>23&cent;</span><span>60&cent;</span></div></div>
@@ -434,7 +434,7 @@ body.wylock{overflow:hidden}
 <div class="small muted">DET @ CAR (SNF) &middot; Sun Oct 4, 5:20 PM PT</div></div>
 <button type="button" class="wyx" data-wyclose aria-label="Close">&times;</button></div>
 <div class="wybody">
-<div class="wyverdict wat"><span class="wyst">WATCHING</span><p><b>Watching</b>, not On Board: 2 condition(s) fail.</p></div>
+<div class="wyverdict wat"><span class="wyst">WATCHING</span><p><b>Watching</b>, not On Board: 2 of 3 conditions not met.</p></div>
 <div class="wynums"><div><b>65&cent;</b><span>Kalshi ask</span></div><div><b>61&cent;</b><span>my price cap</span></div>
 <div><b>64%</b><span>my confidence</span></div><div><b>-1</b><span>edge (pts)</span></div></div>
 <div class="wyprice" role="img" aria-label="Kalshi ask 65 cents vs cap 61 cents"><div class="wyzone" style="left:0;width:44.1%"></div><div class="wycap" style="left:44.1%"><span>cap 61&cent;</span></div><div class="wyask no" style="left:55.9%"><span>ask 65&cent;</span></div><div class="wyends"><span>46&cent;</span><span>80&cent;</span></div></div>
@@ -454,7 +454,7 @@ body.wylock{overflow:hidden}
 <div class="small muted">SD @ MIL, NLDS G1 &middot; Sat Oct 3, 5:30 PM PT</div></div>
 <button type="button" class="wyx" data-wyclose aria-label="Close">&times;</button></div>
 <div class="wybody">
-<div class="wyverdict wat"><span class="wyst">WATCHING</span><p><b>Watching</b>, not On Board: 1 condition(s) fail and 1 pending.</p></div>
+<div class="wyverdict wat"><span class="wyst">WATCHING</span><p><b>Watching</b>, not On Board: 1 of 4 conditions not met and 1 still pending.</p></div>
 <div class="wynums"><div><b>65&cent;</b><span>Kalshi ask</span></div><div><b>64&cent;</b><span>my price cap</span></div>
 <div><b>67%</b><span>my confidence</span></div><div><b>+2</b><span>edge (pts)</span></div></div>
 <div class="wyprice" role="img" aria-label="Kalshi ask 65 cents vs cap 64 cents"><div class="wyzone" style="left:0;width:48.4%"></div><div class="wycap" style="left:48.4%"><span>cap 64&cent;</span></div><div class="wyask no" style="left:51.6%"><span>ask 65&cent;</span></div><div class="wyends"><span>49&cent;</span><span>80&cent;</span></div></div>
@@ -494,7 +494,7 @@ body.wylock{overflow:hidden}
 <div class="small muted">NYY @ TB, ALDS G1 &middot; Sat Oct 3, 3:30 PM PT</div></div>
 <button type="button" class="wyx" data-wyclose aria-label="Close">&times;</button></div>
 <div class="wybody">
-<div class="wyverdict wat"><span class="wyst">WATCHING</span><p><b>Watching</b>, not On Board: 2 condition(s) fail.</p></div>
+<div class="wyverdict wat"><span class="wyst">WATCHING</span><p><b>Watching</b>, not On Board: 2 of 3 conditions not met.</p></div>
 <div class="wynums"><div><b>56&cent;</b><span>Kalshi ask</span></div><div><b>53&cent;</b><span>my price cap</span></div>
 <div><b>56%</b><span>my confidence</span></div><div><b>+0</b><span>edge (pts)</span></div></div>
 <div class="wyprice" role="img" aria-label="Kalshi ask 56 cents vs cap 53 cents"><div class="wyzone" style="left:0;width:45.5%"></div><div class="wycap" style="left:45.5%"><span>cap 53&cent;</span></div><div class="wyask no" style="left:54.5%"><span>ask 56&cent;</span></div><div class="wyends"><span>38&cent;</span><span>71&cent;</span></div></div>
@@ -514,7 +514,7 @@ body.wylock{overflow:hidden}
 <div class="small muted">NYR @ DET &middot; Fri Oct 2, 3:30 PM PT</div></div>
 <button type="button" class="wyx" data-wyclose aria-label="Close">&times;</button></div>
 <div class="wybody">
-<div class="wyverdict wat"><span class="wyst">WATCHING</span><span class="tag paper">PAPER ONLY</span><p><b>Watching</b>, not On Board: 0 condition(s) fail and 1 pending.</p></div>
+<div class="wyverdict wat"><span class="wyst">WATCHING</span><span class="tag paper">PAPER ONLY</span><p><b>Watching</b>, not On Board: 0 of 4 conditions not met and 1 still pending.</p></div>
 <div class="wynums"><div><b>47&cent;</b><span>Kalshi ask</span></div><div><b>47&cent;</b><span>my price cap</span></div>
 <div><b>50%</b><span>my confidence</span></div><div><b>+3</b><span>edge (pts)</span></div></div>
 <div class="wyprice" role="img" aria-label="Kalshi ask 47 cents vs cap 47 cents"><div class="wyzone" style="left:0;width:50.0%"></div><div class="wycap" style="left:50.0%"><span>cap 47&cent;</span></div><div class="wyask ok" style="left:50.0%"><span>ask 47&cent;</span></div><div class="wyends"><span>32&cent;</span><span>62&cent;</span></div></div>
